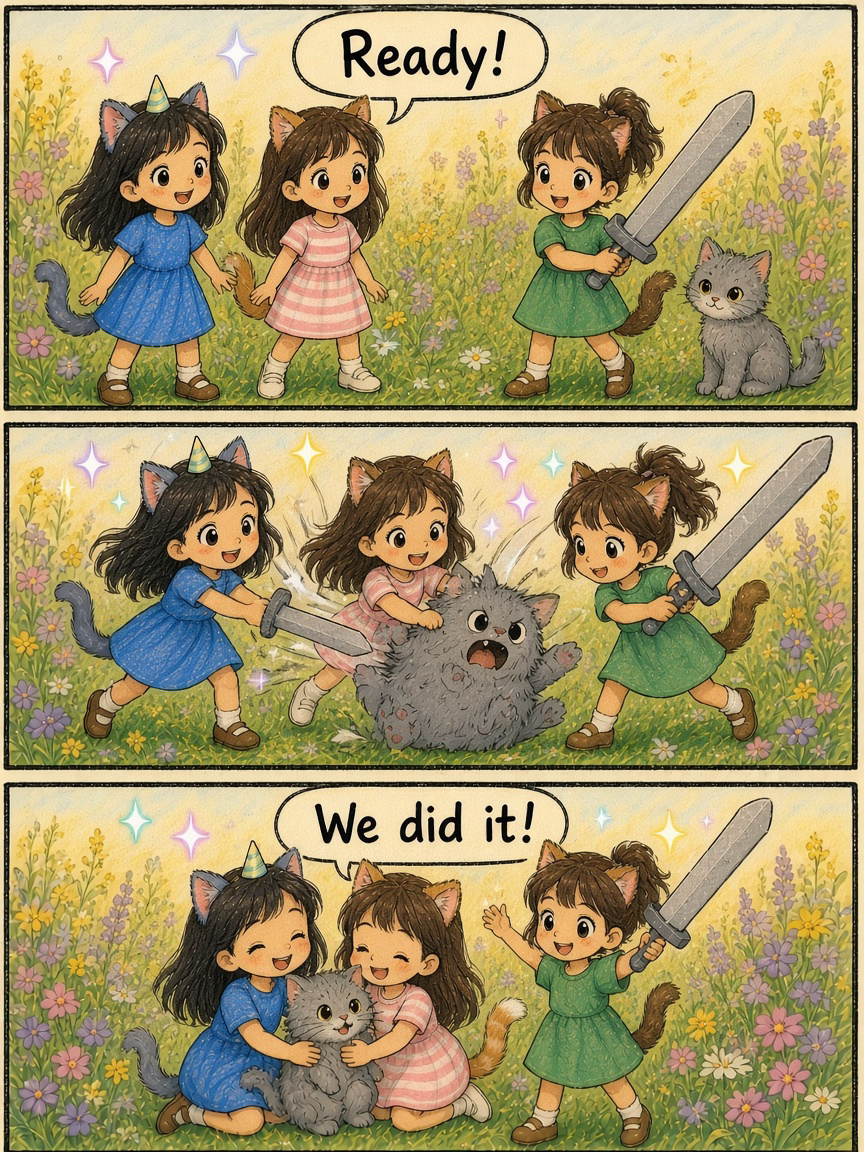
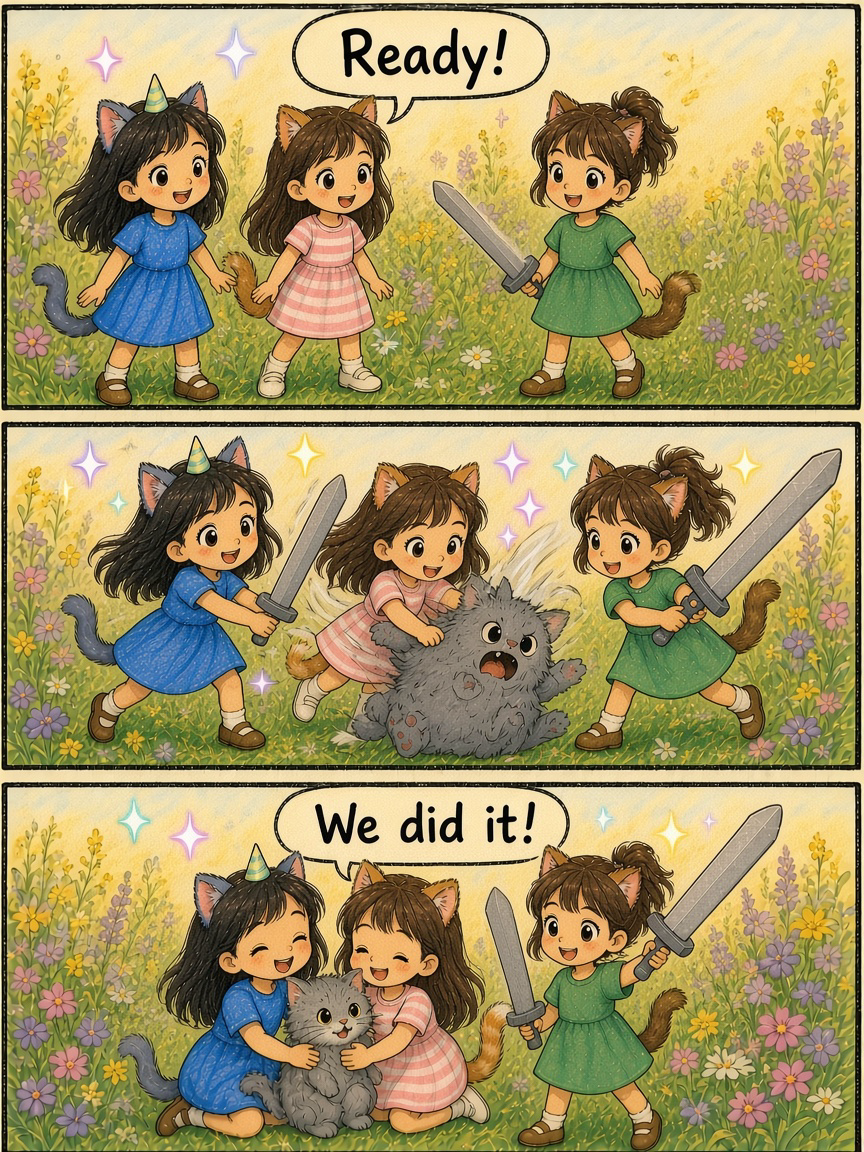
Re-tip Cat Kingdom pages 3–6 and 8 (Ivi sister-style, clean tags)
Replace cats-3 through cats-6 and cats-8 PNGs from Art Soft PASS
pack and bump hub app.js cache to v=51.

diff --git a/index.html b/index.html
@@ -105,6 +105,6 @@
     </div>
   </main>
 
-  <script src="app.js?v=50"></script>
+  <script src="app.js?v=51"></script>
 </body>
 </html>
